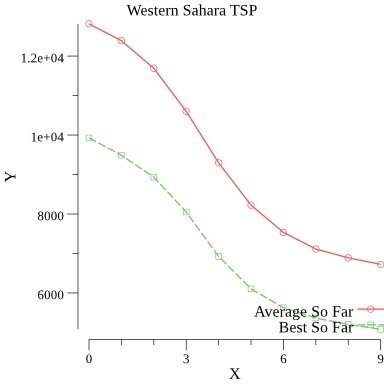
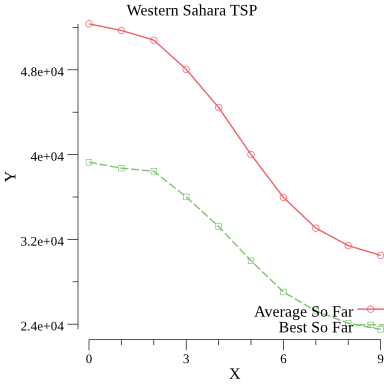
Fixed minor bugs

diff --git a/main/main.go b/main/main.go
@@ -73,8 +73,8 @@ func printError(err error) {
 
 func main() {
 	//comment other to use the other one
-	initGraph("TSP_D")
-	//initGraph("TSP_WS") //other TSP file
+	//initGraph("TSP_D")
+	initGraph("TSP_WS") //other TSP file
 
 	avgavg := make([]float64, 10)
 	avgbest := make([]float64, 10)
@@ -97,19 +97,19 @@ func main() {
 			//compute best and avg tour length for every tour in
 			//500 and add them for average
 			besttourlens[i] += calculateBest()
-			fmt.Println(calculateBest())
 			avgtourlens[i] += calculateAvg()
 			iterations++
 		}
 		//evaporate pheromone to obtain better results
 		evaporatePheromone()
 		fmt.Println("Iteration: ", i)
-
+		fmt.Println("Optimal Path: ", besttour)
 		avgavg[i] = avgtourlens[i] / 500.0
 		avgbest[i] = besttourlens[i] / 500.0
-		fmt.Println("Optimal Path: ", avgavg)
 		i++
 	}
+	fmt.Println("Average Average:", avgavg)
+	fmt.Println("Average Best:", avgavg)
 
 	p, err := plot.New()
 	if err != nil {

diff --git a/README.md b/README.md
@@ -8,8 +8,8 @@ See main.go for more details
 requires mercurial to be installed in the system
 ## Usage
 (Assuming Go is installed and $GOPATH points to the proper directory...if not then refer [here](https://golang.org/doc/install) for installation and  [here](https://golang.org/doc/code.html) for post installation setup.)
-
->Run `$ go install` command in the directory where main.go file is:
+Run `$ go get github.com/mtShaikh/tsp_through_aco`
+>Run `$ go install` command in the directory where main.go file is (```$GOPATH/src/github.com/mtShaikh/main```):
 and then run 
 `$ $GOPATH/bin/main`
 ## Other Details
